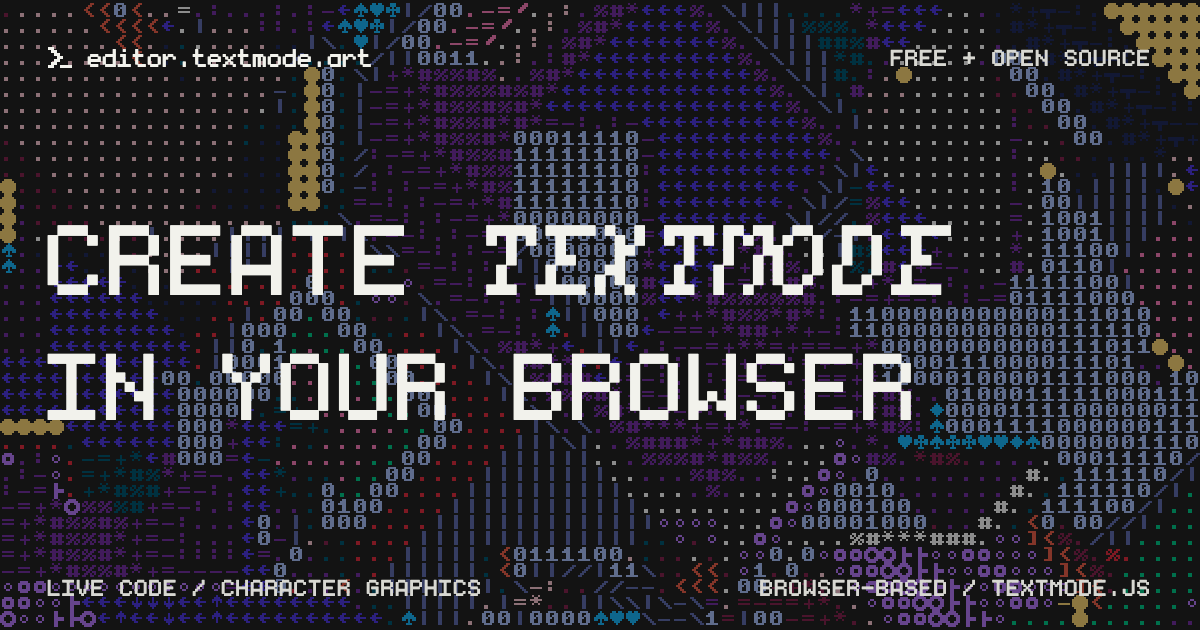
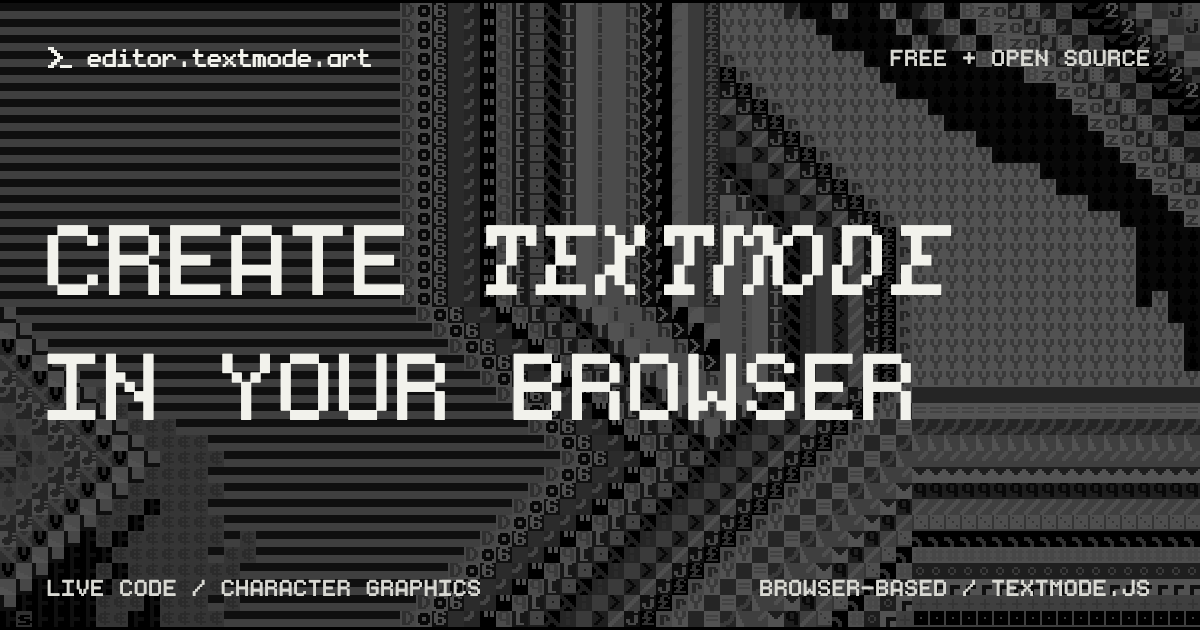
refactor: main og image generation

diff --git a/scripts/og/preview/site-overlay.ts b/scripts/og/preview/site-overlay.ts
@@ -23,7 +23,6 @@ export function mountSiteOverlay(): MountedSiteOverlay {
 	svg.setAttribute('height', String(OG_HEIGHT));
 	svg.setAttribute('viewBox', `0 0 ${OG_WIDTH} ${OG_HEIGHT}`);
 	svg.innerHTML = `
-		<rect id="site-og-backdrop" width="${OG_WIDTH}" height="${OG_HEIGHT}" fill="#000" opacity="0.45" />
 		<g id="site-og-brand" transform="translate(${SAFE_INSET} 47)">
 			<g transform="scale(${BRAND_MARK_SIZE / 768})" fill="#f2f2ec"><path d="${getBrandMarkPath()}" /></g>
 			<text x="40" y="20" fill="#f2f2ec" font-family="Monogram Extended" font-size="${BRAND_FONT_SIZE}">editor.textmode.art</text>
@@ -79,13 +78,10 @@ function assertSiteMetadataLayout(): void {
 		}
 	}
 	if (
-		overlay?.querySelectorAll('#site-og-backdrop').length !== 1 ||
-		overlay?.querySelectorAll('rect').length !== 1 ||
-		overlay?.querySelector('#site-og-backdrop')?.getAttribute('fill') !== '#000' ||
-		overlay?.querySelector('#site-og-backdrop')?.getAttribute('opacity') !== '0.45' ||
-		overlay?.querySelectorAll('linearGradient, radialGradient, filter').length !== 0
+		overlay?.querySelectorAll('#site-og-backdrop').length !== 0 ||
+		overlay?.querySelectorAll('rect, linearGradient, radialGradient, filter').length !== 0
 	) {
-		throw new Error('Site OG overlay must contain one black, 45%-opacity backdrop and no effects.');
+		throw new Error('Site OG overlay must contain no backdrop and no effects.');
 	}
 
 	const elements = [

diff --git a/scripts/og/config.ts b/scripts/og/config.ts
@@ -4,7 +4,7 @@ export const OG_CAPTURE_TIMEOUT_MS = 30_000;
 export const OG_PREVIEW_PATH = '/scripts/og/preview/index.html';
 
 export const SITE_OG_CONFIG = {
-	sketch: 'textmodemata',
+	sketch: 'textmodeshift',
 	frame: 60,
 	output: 'public/og.png',
 } as const;
